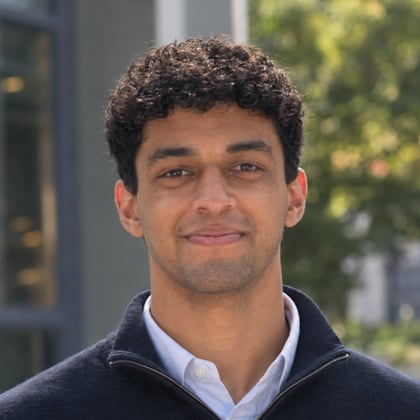
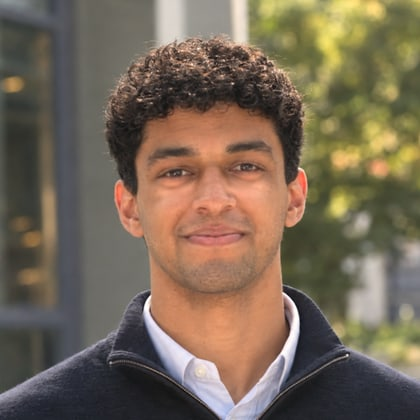
Refine Arnav's team card: wording, degree, LinkedIn, retouched photo
- Reword the highlights around synthesizing and validating Crystron's
  cathode active material, and list the B.S. in Chemical Engineering.
- Add the LinkedIn link so the card matches the others.
- Use a lightly retouched headshot: warmer, brighter light and softened
  under-eye shadows.

diff --git a/index.html b/index.html
@@ -5529,23 +5529,27 @@
                 <p class="text-text-secondary mb-2 text-lg">
                   Head of Product Development
                 </p>
+                <a
+                  href="https://www.linkedin.com/in/arnav-tiwari-/"
+                  target="_blank"
+                  rel="noopener noreferrer"
+                  class="team-member-linkedin"
+                  ><i class="fab fa-linkedin mr-1"></i>LinkedIn Profile</a
+                >
                 <ul class="team-member-details">
                   <li>
-                    Synthesizes Crystron's cathode material through furnace and
-                    batch runs.
+                    Synthesizes Crystron's cathode active material through
+                    furnace and batch runs.
                   </li>
                   <li>
-                    Fabricates coin, pouch, and half cells from in-house material.
-                  </li>
-                  <li>
-                    Runs electrochemical testing and analyzes cell performance
-                    data.
+                    Validates its performance through cell development and
+                    electrochemical testing.
                   </li>
                   <li>
                     Builds internal software tools that streamline lab and R&D
                     workflows.
                   </li>
-                  <li>Studying Chemical Engineering at Georgia Tech.</li>
+                  <li>B.S. in Chemical Engineering at Georgia Tech.</li>
                 </ul>
               </div>
               <div class="card text-center animated-element">
